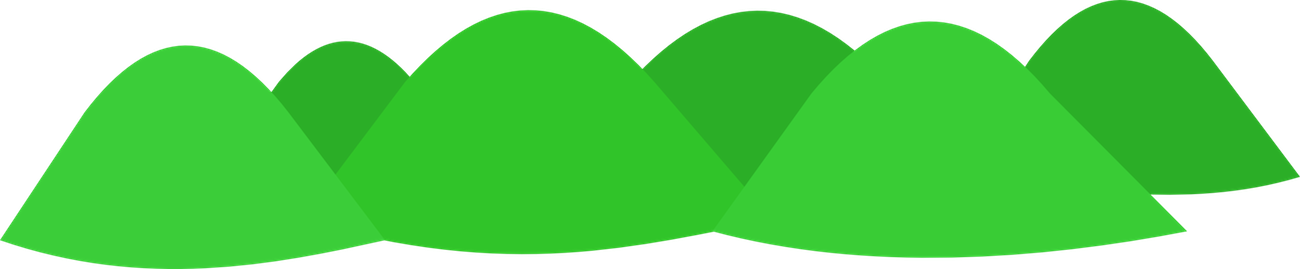
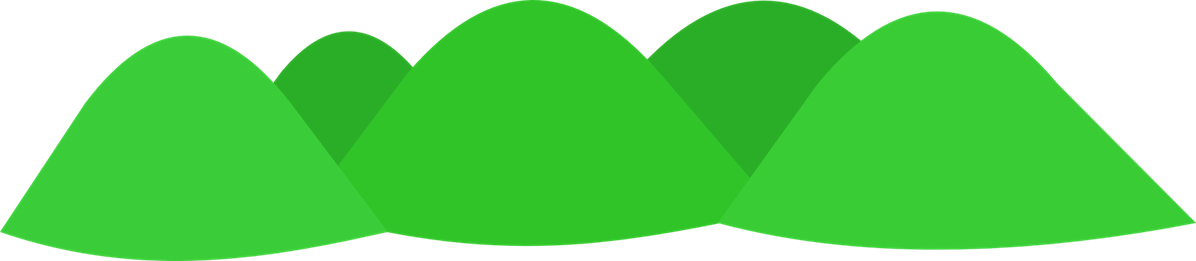
cut mountain in yopyop theme

diff --git a/htdocs/utile/css/yopyop.css b/htdocs/utile/css/yopyop.css
@@ -782,11 +782,12 @@ input#tags{
 }
 #blocMontagnes{
 	background-image: url('../images/theme_yopyop/montagnes.png');
+	background-repeat: repeat-x;
 	height: 270px;
 	position: relative;
 	top: -100px;
 	left: -150px;
-	width: 1300px;
+	width: 1196px;
 }
 
 #pied a{ 
